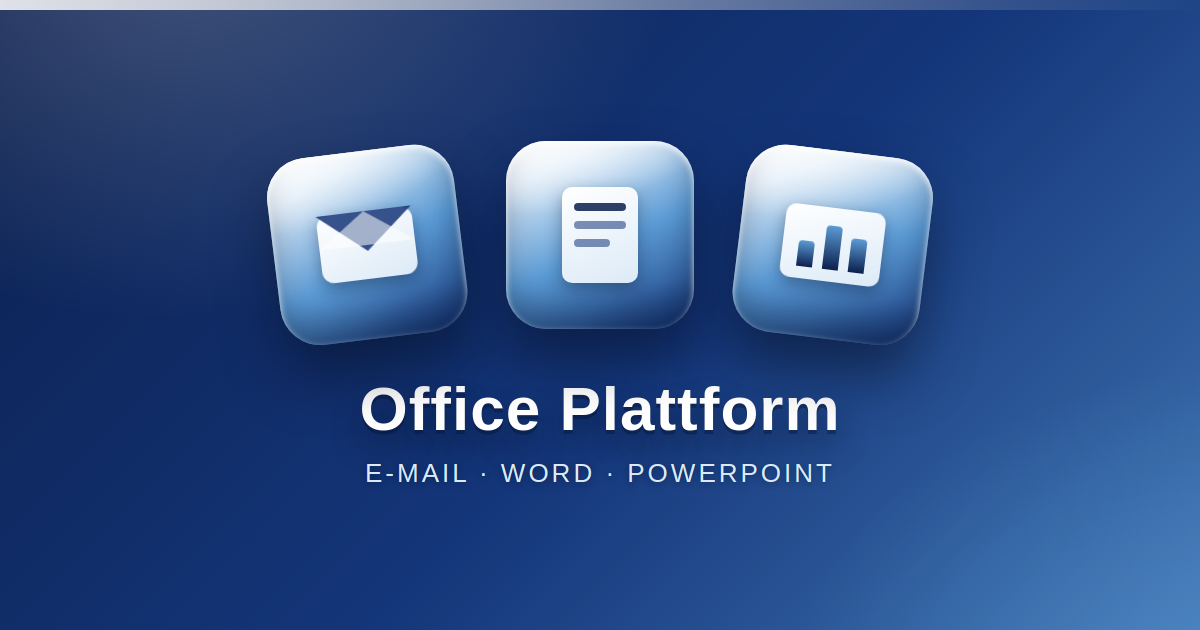
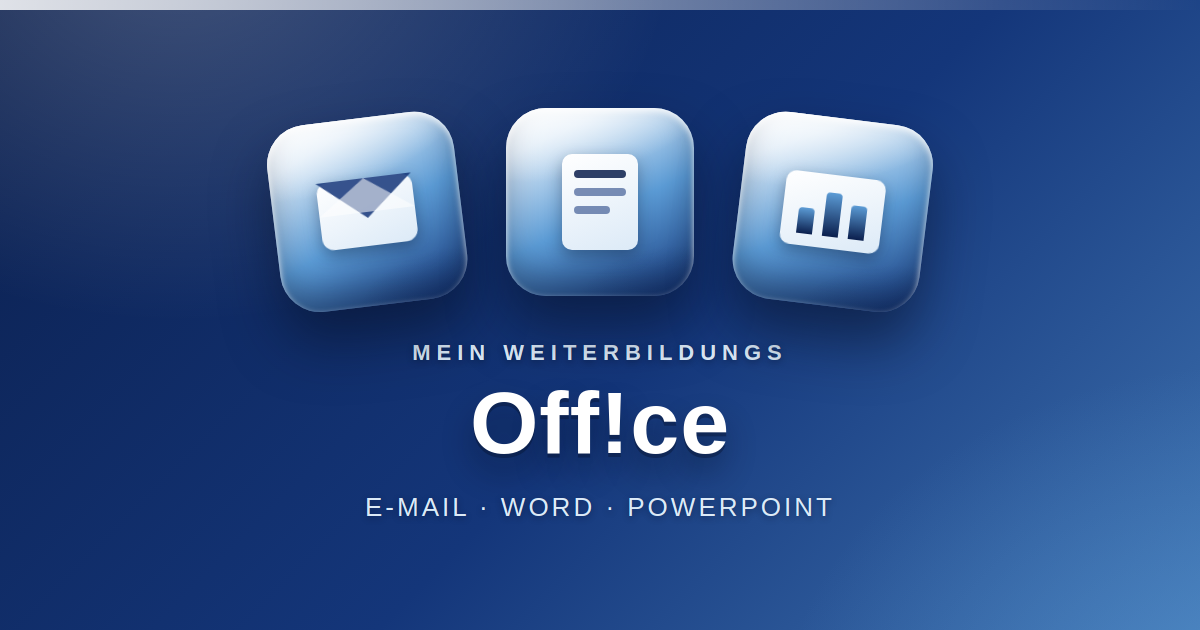
Rename Office Plattform to "Mein Weiterbildungs Off!ce"
App-Titel, Fenster-Titel und Beschreibung in office-platform/ umbenannt
(productName bleibt dateisystemsicher "Mein Weiterbildungs Office" für
Installer-Namen, UI zeigt die stilisierte Schreibweise "Off!ce").
Download-Seite und Social-Media-Banner entsprechend aktualisiert.

Changed region(s): [[0.2158, 0.1508, 0.8017, 0.573], [0.2775, 0.6032, 0.7092, 0.8143]]

diff --git a/download/index.html b/download/index.html
@@ -3,16 +3,16 @@
 <head>
 <meta charset="UTF-8">
 <meta name="viewport" content="width=device-width, initial-scale=1">
-<title>Downloads – Dozenten Dashboard &amp; Office Plattform</title>
-<meta name="description" content="Ein Klick zum Herunterladen: Dozenten Dashboard und Office Plattform für Windows, macOS und Linux.">
-<meta property="og:title" content="Downloads – Dozenten Dashboard &amp; Office Plattform">
+<title>Downloads – Dozenten Dashboard &amp; Mein Weiterbildungs Off!ce</title>
+<meta name="description" content="Ein Klick zum Herunterladen: Dozenten Dashboard und Mein Weiterbildungs Off!ce für Windows, macOS und Linux.">
+<meta property="og:title" content="Downloads – Dozenten Dashboard &amp; Mein Weiterbildungs Off!ce">
 <meta property="og:description" content="Desktop-Apps für Dozentenverwaltung sowie E-Mail, Word und PowerPoint – für Windows, macOS und Linux.">
 <meta property="og:image" content="assets/social-banner.png">
 <link rel="stylesheet" href="style.css">
 </head>
 <body>
   <header class="hero">
-    <img src="assets/social-banner.png" alt="Office Plattform – E-Mail, Word, PowerPoint" class="hero-banner">
+    <img src="assets/social-banner.png" alt="Mein Weiterbildungs Off!ce – E-Mail, Word, PowerPoint" class="hero-banner">
     <h1>Downloads</h1>
     <p class="hero-sub">Ein Klick zum Herunterladen – für Windows, macOS und Linux.</p>
   </header>
@@ -38,7 +38,7 @@
     </section>
 
     <section class="app-card">
-      <h2>Office Plattform</h2>
+      <h2>Mein Weiterbildungs Off!ce</h2>
       <p>E-Mail Ein- &amp; Ausgang (IMAP/SMTP), Word-Dokumente schreiben und als .docx exportieren, PowerPoint-Präsentationen erstellen und als .pptx exportieren.</p>
       <div class="download-row">
         <a class="download-btn disabled" data-app="office" data-ext=".exe" aria-disabled="true" href="#">

diff --git a/download/app.js b/download/app.js
@@ -35,7 +35,7 @@
     let anyFound = false;
 
     buttons.forEach((btn) => {
-      const appPattern = btn.dataset.app === 'dozenten' ? /dozenten/i : /office/i;
+      const appPattern = btn.dataset.app === 'dozenten' ? /dozenten/i : /(weiterbildung|office)/i;
       const ext = (btn.dataset.ext || '').toLowerCase();
       const asset = assets.find((a) => appPattern.test(a.name) && a.name.toLowerCase().endsWith(ext));
       if (asset) {

diff --git a/office-platform/renderer/index.html b/office-platform/renderer/index.html
@@ -2,12 +2,12 @@
 <html lang="de">
 <head>
 <meta charset="UTF-8">
-<title>Office Plattform</title>
+<title>Mein Weiterbildungs Off!ce</title>
 <link rel="stylesheet" href="style.css">
 </head>
 <body>
   <header class="app-header">
-    <h1>Office Plattform</h1>
+    <h1>Mein Weiterbildungs Off!ce</h1>
   </header>
 
   <nav class="section-tabs" id="sectionTabs">
